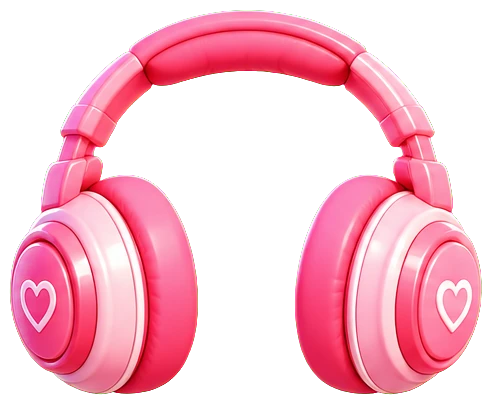
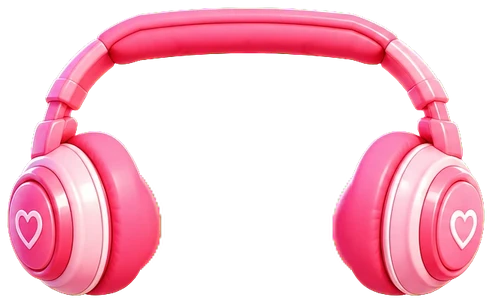
Fipilot Pet – mặc áo vẫn thấy bàn tay trần ở tay không cầm gì; tai nghe thu chụp tai còn 75%, quai đi sau cuống lá; băng đô tai mèo ôm theo đầu, đi sau cuống lá
Kiểm: npm test đạt; soát ảnh ghép tai nghe × 2 thân, băng đô × 2 thân, chụp bản thử (áo + 1 tay cầm / 1 tay trống).

Claude-Session: https://claude.ai/code/session_0163KSZYdzHDud2uG42gs7mp

diff --git a/src/pet/PetAvatar.jsx b/src/pet/PetAvatar.jsx
@@ -36,11 +36,19 @@ export function PetAvatar({ variant = "nam", equipped = {}, mood = "vui", bow = 
   const eq = Object.fromEntries(Object.entries(equipped).map(([s, id]) => [s, ITEMS[id]]).filter(([, it]) => it && it.variants.includes(variant)));
   const face = FACES[mood] || FACES.vui;
   const [eyes, mouth] = face[variant];
+  const behindLeaf = Object.values(eq).some((it) => it.behind_leaf);
   const layers = [];
   for (const L of catalog.layers) {
-    if (L === "than") layers.push(<Layer key="than" file={eq.ao ? b.file_ao : b.file} a={{ x: 0.5, y: 0.5, w: 1, h: 1 }} bw={bw} bh={bh} clipTop={eq.dau?.cover ? b.hat_cut : 0} />);
+    if (L === "than") layers.push(<Layer key="than" file={behindLeaf ? (eq.ao ? b.file_ao_nl : b.file_nl) : (eq.ao ? b.file_ao : b.file)} a={{ x: 0.5, y: 0.5, w: 1, h: 1 }} bw={bw} bh={bh} clipTop={eq.dau?.cover ? b.hat_cut : 0} />);
     else if (L === "quai") { Object.values(eq).forEach((it) => (it.front || []).forEach((f, i) => layers.push(<Layer key={`quai${it.id}${i}`} file={f.file} a={f} bw={bw} bh={bh} />))); } // quai balo đè lên áo
-    else if (L === "tay") { if (eq.cam_tay && !eq.cam_tay.file_hold) layers.push(<Layer key="tay" file={b.hand.file} a={b.hand} bw={bw} bh={bh} />); } // tay vẽ đè lên đồ → trông như đang cầm
+    else if (L === "tay") {
+      if (eq.cam_tay && !eq.cam_tay.file_hold) layers.push(<Layer key="tay" file={b.hand.file} a={b.hand} bw={bw} bh={bh} />); // tay vẽ đè lên đồ → trông như đang cầm
+      if (eq.ao) { // mặc áo thì tay áo che tay gốc → vẽ lại bàn tay trần ở tay đang không cầm gì
+        layers.push(<Layer key="tay-trai" file={b.hand_l.file} a={b.hand_l} bw={bw} bh={bh} />);
+        if (!eq.cam_tay) layers.push(<Layer key="tay-phai" file={b.hand.file} a={b.hand} bw={bw} bh={bh} />);
+      }
+      if (behindLeaf) layers.push(<Layer key="la" file={b.leaf.file} a={b.leaf} bw={bw} bh={bh} />); // băng đô / tai nghe đi sau cuống lá
+    }
     else if (L === "mat") layers.push(<Layer key="mat" file={eyes} a={b.eyes} bw={bw} bh={bh} />);
     else if (L === "mieng") layers.push(<Layer key="mieng" file={mouth} a={b.mouth} bw={bw} bh={bh} />);
     else if (L === "bow") { if (b.bow && bow && !eq.dau) layers.push(<Layer key="bow" file={b.bow.file} a={b.bow} bw={bw} bh={bh} />); }

diff --git a/scripts/pet/fit.py b/scripts/pet/fit.py
@@ -53,17 +53,25 @@ for i,(cw,gy) in GRIP.items():
 # --- Đồ đội trên đầu không trùm (nơ, băng đô, vương miện): đáy món ngay trên lông mày, rộng theo đầu ---
 for i,(bn,bu,cn,cu) in {7:(.25,.30,.55,.58),10:(.305,.35,.62,.68),11:(.262,.312,.50,.56),12:(.262,.312,.50,.56)}.items():
     A[f'doi-dau-{i:02d}']={'nam':fitw(f'doi-dau/doi-dau-{i:02d}.webp','nam',bn,cn),'nu':fitw(f'doi-dau/doi-dau-{i:02d}.webp','nu',bu,cu)}
+
+# --- Băng đô tai mèo (20/10): vòng băng ôm theo đầu giọt nước — đỉnh vòng ngay dưới chỏm (sau cuống lá), 2 đầu băng chạm mép đầu ở ngang .37; ép dọc nhẹ cho vòng bớt cao ---
+def fitband(file,v,arc_top,end_y,cw):
+    im=Image.open(f'{R}/{file}'); a=im.split()[3].point(lambda p:255 if p>40 else 0); l,t,r,b=a.getbbox()
+    col=[y for y in range(im.height) if a.getpixel((im.width//2,y))]; at=col[0]
+    bw,bh=B[v]; sx=cw*bw/(r-l); sy=(end_y-arc_top)*bh/(b-at)
+    return {'x':round(.5+(im.width/2-(l+r)/2)*sx/bw,4),'y':round((arc_top*bh-at*sy+im.height*sy/2)/bh,4),'w':round(im.width*sx/bw,4),'h':round(im.height*sy/bh,4)}
+A['doi-dau-10']={'nam':fitband('doi-dau/doi-dau-10.webp','nam',.165,.37,.76),'nu':fitband('doi-dau/doi-dau-10.webp','nu',.165,.37,.78)}
 # --- Kính: tâm tròng kính trùng tâm mắt, kính đủ rộng để ôm trọn 2 mắt ---
 EYE_C={'nam':.357,'nu':.412}; GW={'nam':.58,'nu':.62}
 for i in (1,2,3,6,7,8):
     A[f'kinh-tai-nghe-{i:02d}']={v:fitc(f'kinh-tai-nghe/kinh-tai-nghe-{i:02d}.webp',v,EYE_C[v],GW[v]) for v in ('nam','nu')}
-# --- Tai nghe (vẽ lại 20/10, nhìn thẳng như đang đeo): quai sát đỉnh đầu dưới cuống lá, chụp tai ôm 2 bầu đầu ---
+# --- Tai nghe (vẽ lại 20/10, nhìn thẳng như đang đeo): quai sát đỉnh đầu, chụp tai ôm 2 bầu đầu. Ảnh đã thu chụp tai còn 75% (giãn đoạn quai giữa để giữ bề ngang) vì chụp tai vẽ quá to ---
 def fittop(file,v,top,cw,cx=.5):
     im=Image.open(f'{R}/{file}'); l,t,r,b=im.split()[3].point(lambda p:255 if p>40 else 0).getbbox()
     bw,bh=B[v]; s=cw*bw/(r-l)
     return {'x':round(cx+(im.width/2-(l+r)/2)*s/bw,4),'y':round((top*bh-t*s+im.height*s/2)/bh,4),'w':round(im.width*s/bw,4)}
 for i in (4,5,9,10):
-    A[f'kinh-tai-nghe-{i:02d}']={'nam':fittop(f'kinh-tai-nghe/kinh-tai-nghe-{i:02d}.webp','nam',.165,.90),'nu':fittop(f'kinh-tai-nghe/kinh-tai-nghe-{i:02d}.webp','nu',.17,.94)}
+    A[f'kinh-tai-nghe-{i:02d}']={'nam':fittop(f'kinh-tai-nghe/kinh-tai-nghe-{i:02d}.webp','nam',.15 if i!=10 else .12,.90),'nu':fittop(f'kinh-tai-nghe/kinh-tai-nghe-{i:02d}.webp','nu',.155 if i!=10 else .125,.94)}
 # --- Khăn: quấn ngay dưới cằm, trên vai (không trùm lên mặt) ---
 for f in ('ao-roi/ao-roi-07.webp','phu-kien/phu-kien-13.webp'):
     k=f.split('/')[1][:-5]

diff --git a/scripts/pet/gen_catalog.py b/scripts/pet/gen_catalog.py
@@ -81,6 +81,7 @@ BODY_HAND = {'nam': (0.852, 0.7828, 588, 900), 'nu': (0.8515, 0.7828, 559, 900)}
 COVER = {f'doi-dau-{i:02d}' for i in (1, 2, 3, 4, 5, 6, 8, 9)}  # mũ trùm kín đỉnh đầu → ẩn lá + chỏm đầu dưới mũ
 for it in items:
     if it['id'] in COVER: it['cover'] = True
+    if it['id'] in ('doi-dau-10', 'kinh-tai-nghe-04', 'kinh-tai-nghe-05', 'kinh-tai-nghe-09', 'kinh-tai-nghe-10'): it['behind_leaf'] = True  # vòng qua đỉnh đầu, đi SAU cuống lá
     if it['id'] in QUAI:
         it['front'] = [{'file': QUAI[it['id']] + 'trai.webp', **A(0.30, 0.712, 0.22)}, {'file': QUAI[it['id']] + 'phai.webp', **A(0.70, 0.712, 0.22)}]
     if it['id'] == 'phu-kien-02':
@@ -105,13 +106,13 @@ catalog = {
   'bodies': {
     'nam': {'file': 'than/than-nam.webp', 'file_ao': 'than/than-nam-mac-ao.webp', 'w': 588, 'h': 900,
             'eyes': A(0.5, 0.345, 0.36), 'mouth': A(0.5, 0.445, 0.12),
-            'hand': {'file': 'than/tay-phai-nam.webp', **A(0.852, 0.7828, 0.1259)}, 'hand_left': [0.1395, 0.788], 'hat_cut': 0.27,
+            'hand': {'file': 'than/tay-phai-nam.webp', **A(0.852, 0.7828, 0.1259)}, 'hand_left': [0.1395, 0.788], 'hand_l': {'file': 'than/tay-trai-nam.webp', **A(0.1395, 0.788, 0.1259)}, 'hat_cut': 0.27,
             'file_nl': 'than/than-nam-khong-la.webp', 'file_ao_nl': 'than/than-nam-mac-ao-khong-la.webp',
             'leaf': {'file': 'than/la-nam.webp', **A(0.4643, 0.0828, 0.3503), 'px': 0.80, 'py': 0.97}},
     'nu': {'file': 'than/than-nu.webp', 'file_ao': 'than/than-nu-mac-ao.webp', 'w': 559, 'h': 900,
            'eyes': A(0.5, 0.40, 0.40), 'mouth': A(0.5, 0.50, 0.13),
            'bow': {'file': 'than/no-nu.webp', **A(0.55, 0.20, 0.55)},
-           'hand': {'file': 'than/tay-phai-nu.webp', **A(0.8515, 0.7828, 0.1252)}, 'hand_left': [0.1395, 0.788], 'hat_cut': 0.30,
+           'hand': {'file': 'than/tay-phai-nu.webp', **A(0.8515, 0.7828, 0.1252)}, 'hand_left': [0.1395, 0.788], 'hand_l': {'file': 'than/tay-trai-nu.webp', **A(0.1395, 0.788, 0.1252)}, 'hat_cut': 0.30,
            'file_nl': 'than/than-nu-khong-la.webp', 'file_ao_nl': 'than/than-nu-mac-ao-khong-la.webp',
            'leaf': {'file': 'than/la-nu.webp', **A(0.4365, 0.0822, 0.4043), 'px': 0.76, 'py': 0.97}},
   },
